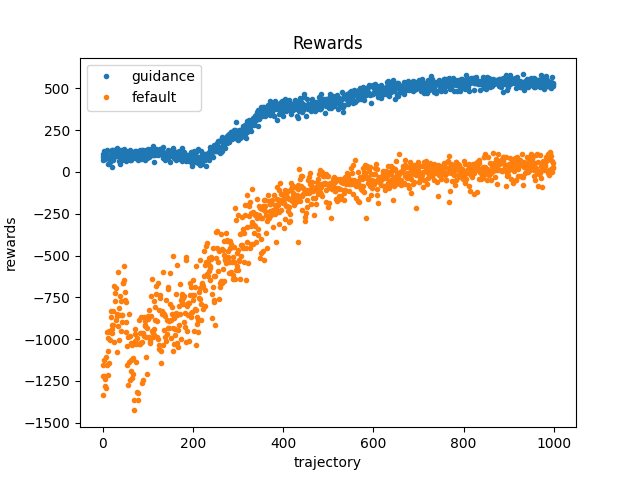
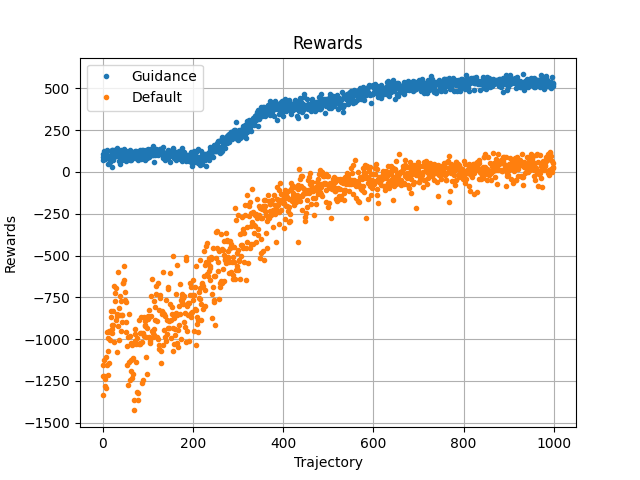
Небольшие изменения в отрисовке другого эксперимента

diff --git a/experiments/guidance_experiment/showing.py b/experiments/guidance_experiment/showing.py
@@ -61,12 +61,13 @@ def main():
     default_rewards_files = get_experiment_files(reward_files, False)
     default_rewards = read_files_data(default_rewards_files)
 
-    plt.plot(np.mean(guidance_rewards, axis=0), ".", label="guidance")
-    plt.plot(np.mean(default_rewards, axis=0), ".", label="default")
+    plt.plot(np.mean(guidance_rewards, axis=0), ".", label="Guidance")
+    plt.plot(np.mean(default_rewards, axis=0), ".", label="Default")
     plt.legend()
     plt.title('Rewards')
-    plt.xlabel('trajectory')
-    plt.ylabel('rewards')
+    plt.xlabel('Trajectory')
+    plt.ylabel('Rewards')
+    plt.grid()
     plt.savefig('guidance_rewards.png')
     plt.show()
 
